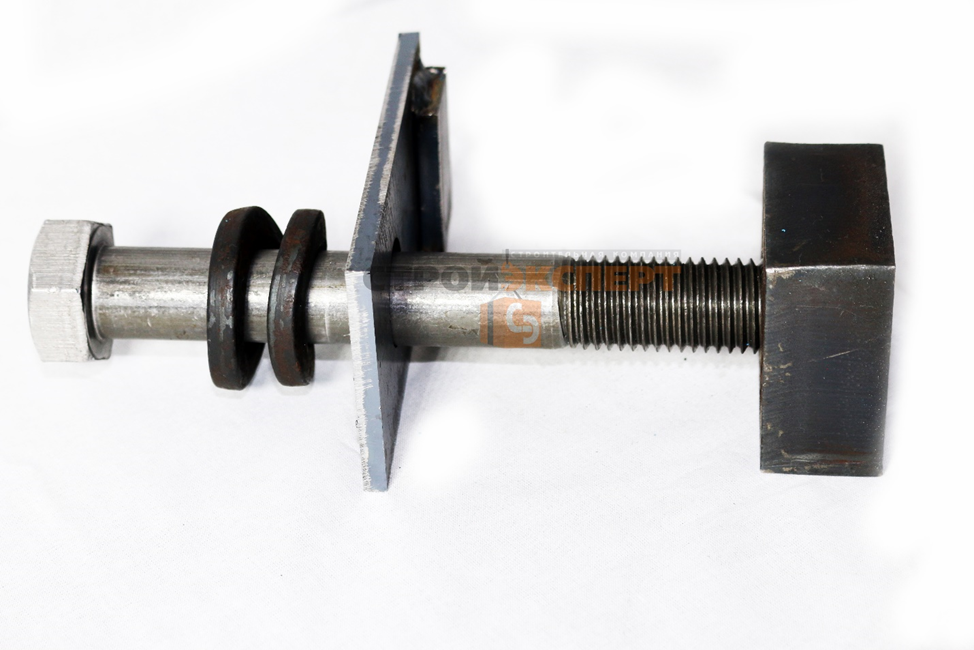
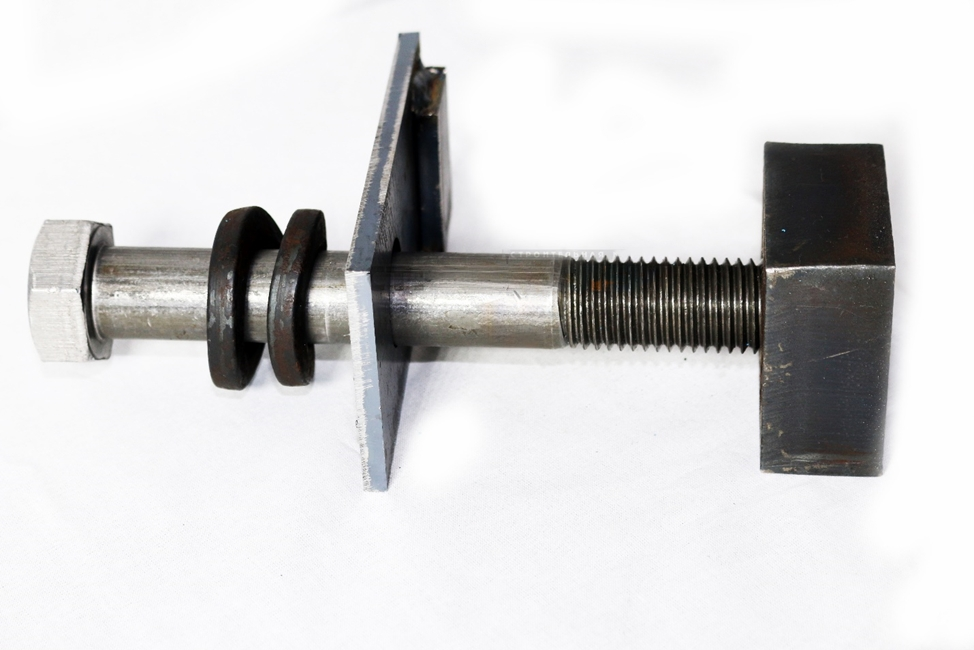
remove watermarks, page monitoring and edits(text)

Changed region(s): [[0.4312, 0.3692, 0.7084, 0.5538]]

diff --git a/src/app/(bzd)/services/monitoring/page.tsx b/src/app/(bzd)/services/monitoring/page.tsx
@@ -3,6 +3,8 @@ import ServicesHeader from "@/components/widgets/ServicesHeader";
 import PackingOfSafetyBags from "@/components/widgets/PackingOfSafetyBags";
 import AdditionalServices from "@/components/widgets/AdditionalServices";
 import PickupConditions from "@/components/widgets/PickupConditions";
+import {Check} from "lucide-react";
+import {Image} from "@nextui-org/react";
 
 const Page = async() => {
 
@@ -18,12 +20,90 @@ const Page = async() => {
                     // defaultValue={'monitoring'}
                 />
                 <div
-                    className={'w-full mx-auto flex flex-col items-center justify-center max-w-7xl px-2 lg:px-8 gap-4'}>
-                    {/*<PackingOfSafetyBags/>*/}
-                    {/*<AdditionalServices title={'Дополнительные услуги'}*/}
-                    {/*                    description={'Перечень дополнительных услуг, которые необходимы для полной реализации задачи.'}*/}
-                    {/*/>*/}
-                    {/*<PickupConditions defaultValue={'rent'}/>*/}
+                    className={'w-full mx-auto flex flex-col max-w-7xl px-2 lg:px-8 gap-4'}>
+                    <div className={'flex flex-col gap-2'}>
+                        <h2 className={'text-3xl font-bold'}>
+                            Системы автоматизированного деформационного мониторинга (АСДМ)
+                        </h2>
+                    </div>
+                    <div className={'flex justify-between w-full gap-6'}>
+                        <div className={'w-full flex justify-center gap-3 flex-col'}>
+                            <p>
+                                Контроль стабильности потенциально опасных объектов и прогнозирования их поведения
+                                являются очень важной задачей. Вместе с тем существует большое количество уже
+                                построенных стратегически важных объектов, таких как плотины, дамбы, ГЭС, АЭС,
+                                телевизионные вышки, старение конструкций которых требует особого внимания.
+                                Мы также должны заботиться о сохранности исторических памятников и сооружений,
+                                представляющих культурную ценность. Кроме того такие природные явления, движения
+                                земной коры, оползни, вулканы, землетрясения нуждаются в изучении для создания методов
+                                прогнозирования и предупреждения чрезвычайных ситуаций. Мониторинг состояния природных
+                                объектов и искусственных сооружений в наши дни является необходимостью и неотъемлемой
+                                частьюсистемы обеспечения безопасности.
+                            </p>
+                            <p>
+                                Основой мониторинга деформаций зданий, сооружений, являются серии наблюдений сделанных
+                                на протяжении времени для определения пространственных изменений геометрических
+                                параметров объектов в одном, двух или трех измерениях, а также во времени.
+                                При этом скорости и ускорения являются производными.
+                            </p>
+                        </div>
+                        <div className={'flex justify-center h-[70%]'}>
+                            <Image
+                                src={'/monitoring/img.png'}
+                                width={'100%'}
+                                height={'75%'}
+                                className={'object-cover hidden lg:block'} removeWrapper
+                            />
+                        </div>
+                    </div>
+                    {/*/*/}
+                    <div className={'flex flex-col gap-2'}>
+                        <h2 className={'text-3xl font-bold'}>
+                            Геомониторинг проводится
+                        </h2>
+                    </div>
+                    <div className={'flex justify-between w-full gap-6'}>
+                        <div className={'w-full flex justify-start gap-3 flex-col'}>
+                            <p>
+                                Перед началом строительства (мониторинг массива грунта, в том числе и уровня подземных
+                                вод, и сооружений окружающей застройки).
+                                На начальном этапе строительства (мониторинг ограждающих конструкций котлована
+                                с момента экскавации грунта).
+                                В процессе возведения надземной части здания или сооружения для контроля вертикальных
+                                перемещений (осадок) и отклонений от вертикали (кренов).
+                                В течение одного года после ввода объекта в эксплуатацию.
+                            </p>
+                            <p>
+                                Геодезический мониторинг призван обеспечивать безопасное возведение новых
+                                строительных объектов, а также эксплуатационную надежность реконструируемых зданий
+                                и новостроек.
+                            </p>
+                            <div className={'flex flex-col gap-2'}>
+                                <p className={'font-bold'}>Геомониторинг проводится в соответствии с нормативами:</p>
+                                <p className={'flex gap-2 items-center'}>
+                                    <hr className={'w-8 h-0.5 bg-primary rounded border-0'}/>
+                                    СП 22.13330.2016 «СНиП 2.02.01-83. Основания зданий и сооружений».
+                                </p>
+                                <p className={'flex gap-2 items-center'}>
+                                    <hr className={'w-8 h-0.5 bg-primary rounded border-0'}/>
+                                    ГОСТ 24846-2019 «Грунты Методы измерений деформаций оснований зданий и сооружений».
+                                </p>
+                                <p className={'flex gap-2 items-center'}>
+                                    <hr className={'w-8 h-0.5 bg-primary rounded border-0'}/>
+                                    Постановление Правительства Москвы за № 857 (от 7 декабря 2004 года).
+                                </p>
+
+                            </div>
+                        </div>
+                        <div className={'flex justify-center h-[70%]'}>
+                            <Image
+                                src={'/monitoring/img_1.png'}
+                                width={'100%'}
+                                height={'75%'}
+                                className={'object-cover hidden lg:block'} removeWrapper
+                            />
+                        </div>
+                    </div>
                 </div>
             </div>
         </Suspense>

diff --git a/src/components/widgets/TableDeadlines/index.tsx b/src/components/widgets/TableDeadlines/index.tsx
@@ -25,7 +25,7 @@ const TableDeadlines = () => {
                 </thead>
                 <tbody>
                 <tr>
-                    <td className="border-none shadow-sm bg-primary opacity-80 px-4 py-2">1. Подписание
+                    <td className="border-none shadow-sm bg-primary  px-4 py-2">1. Подписание
                         договора
                     </td>
                     <td className="text-center bg-primary text-white">1</td>
@@ -52,8 +52,7 @@ const TableDeadlines = () => {
                     <td className={'border border-black/20 w-[20px]'}></td>
                 </tr>
                 <tr>
-                    <td className="border-none bg-primary opacity-80 px-4 py-2">2. Разработка
-                        ППР на страхпакет
+                    <td className="border-none bg-primary  px-4 py-2">2. Разработка проекта производства работ
                     </td>
                     <td className={'border border-black/20 w-[20px]'}></td>
                     <td className="text-center bg-primary text-white" colSpan={3}>3 дня*</td>
@@ -77,16 +76,14 @@ const TableDeadlines = () => {
                     <td className={'border border-black/20 w-[20px]'}></td>
                 </tr>
                 <tr>
-                    <td className="border-none shadow-md bg-primary opacity-80 px-4 py-2">
-                        3. Инструментальная проверка коммуникаций,
-                        Согласование ППР на страхпакет,
-                        Договор на технадзор
+                    <td className="border-none shadow-md bg-primary  px-4 py-2">
+                        3. Согласование ППР
                     </td>
                     <td className={'border border-black/20 w-[20px]'}></td>
                     <td className={'border border-black/20 w-[20px]'}></td>
                     <td className={'border border-black/20 w-[20px]'}></td>
                     <td className={'border border-black/20 w-[20px]'}></td>
-                    <td className="text-center bg-primary text-white" rowSpan={4} colSpan={10} data-bs-toggle="tooltip"
+                    <td className="text-center bg-primary text-white" rowSpan={5} colSpan={10} data-bs-toggle="tooltip"
                         data-bs-placement="bottom"
                         data-bs-title="Проверка наличия инженерных коммуникаций, установка временных знаков в местах их расположения в зоне производства работ. Разработка мероприятий по обеспечению сохранности инженерных и кабельных коммуникаций.">23
                         дня*
@@ -101,8 +98,7 @@ const TableDeadlines = () => {
                     <td className={'border border-black/20 w-[20px]'}></td>
                 </tr>
                 <tr>
-                    <td className="border-none bg-primary opacity-60 px-6 py-2">3.1. Создание
-                        комиссии по инструментальной проверке
+                    <td className="border-none bg-primary  px-6 py-2">3.1.Организация и проведение инструментальной проверки
                     </td>
                     <td className={'border border-black/20 w-[20px]'}></td>
                     <td className={'border border-black/20 w-[20px]'}></td>
@@ -118,8 +114,7 @@ const TableDeadlines = () => {
                     <td className={'border border-black/20 w-[20px]'}></td>
                 </tr>
                 <tr>
-                    <td className="border-none bg-primary opacity-60 px-6 py-2">3.2.
-                        Комиссионный осмотр места работ
+                    <td className="border-none bg-primary  px-6 py-2">3.2. Получение документации в подразделения ОАО "РЖД"
                     </td>
                     <td className={'border border-black/20 w-[20px]'}></td>
                     <td className={'border border-black/20 w-[20px]'}></td>
@@ -135,8 +130,7 @@ const TableDeadlines = () => {
                     <td className={'border border-black/20 w-[20px]'}></td>
                 </tr>
                 <tr>
-                    <td className="border-none bg-primary opacity-60 px-6 py-2">3.2.
-                        подразделениях ОАО РЖД документов
+                    <td className="border-none bg-primary  px-6 py-2">3.3. Прохождение иструктажа в подразделениях ОАО "РЖД"
                     </td>
                     <td className={'border border-black/20 w-[20px]'}></td>
                     <td className={'border border-black/20 w-[20px]'}></td>
@@ -152,8 +146,23 @@ const TableDeadlines = () => {
                     <td className={'border border-black/20 w-[20px]'}></td>
                 </tr>
                 <tr>
-                    <td className="border-none shadow-sm bg-primary opacity-80 px-4 py-2">4. Получение
-                        акта-допуска
+                    <td className="border-none bg-primary  px-6 py-2">3.4. Согласование ППР в подразделениях ОАО "РЖД"
+                    </td>
+                    <td className={'border border-black/20 w-[20px]'}></td>
+                    <td className={'border border-black/20 w-[20px]'}></td>
+                    <td className={'border border-black/20 w-[20px]'}></td>
+                    <td className={'border border-black/20 w-[20px]'}></td>
+                    <td className={'border border-black/20 w-[20px]'}></td>
+                    <td className={'border border-black/20 w-[20px]'}></td>
+                    <td className={'border border-black/20 w-[20px]'}></td>
+                    <td className={'border border-black/20 w-[20px]'}></td>
+                    <td className={'border border-black/20 w-[20px]'}></td>
+                    <td className={'border border-black/20 w-[20px]'}></td>
+                    <td className={'border border-black/20 w-[20px]'}></td>
+                    <td className={'border border-black/20 w-[20px]'}></td>
+                </tr>
+                <tr>
+                    <td className="border-none shadow-sm bg-primary  px-4 py-2">4. Получение акта-допуска
                     </td>
                     <td className={'border border-black/20 w-[20px]'}></td>
                     <td className={'border border-black/20 w-[20px]'}></td>
@@ -175,8 +184,7 @@ const TableDeadlines = () => {
                     <td className={'border border-black/20 w-[20px]'}></td>
                 </tr>
                 <tr>
-                    <td className="border-b border-black/20 shadow-sm bg-primary opacity-80 px-4 py-2">5. Установка
-                        страхпакета
+                    <td className="border-b border-black/20 shadow-sm bg-primary  px-4 py-2">5. Установка ресльсового страховочного пакета
                     </td>
                     <td className={'border border-black/20 w-[20px]'}></td>
                     <td className={'border border-black/20 w-[20px]'}></td>

diff --git a/src/components/widgets/AppNavbar/index.tsx b/src/components/widgets/AppNavbar/index.tsx
@@ -90,13 +90,13 @@ const AppNavbar = () => {
                                 Аренда
                             </Link>
                         </NavbarMenuItem>
-                        {/*<NavbarMenuItem onClick={() => setIsMenuOpen(!isMenuOpen)}*/}
-                        {/*                isActive={pathname.includes('/services/monitoring')}>*/}
-                        {/*    <Link href={'/services/monitoring'}*/}
-                        {/*          className={`transition-background items-center flex rounded-md justify-between `}>*/}
-                        {/*        Мониторинг*/}
-                        {/*    </Link>*/}
-                        {/*</NavbarMenuItem>*/}
+                        <NavbarMenuItem onClick={() => setIsMenuOpen(!isMenuOpen)}
+                                        isActive={pathname.includes('/services/monitoring')}>
+                            <Link href={'/services/monitoring'}
+                                  className={`transition-background items-center flex rounded-md justify-between `}>
+                                Мониторинг
+                            </Link>
+                        </NavbarMenuItem>
                         {/*<NavbarMenuItem onClick={() => setIsMenuOpen(!isMenuOpen)}*/}
                         {/*                isActive={pathname.includes('/services/installation')}>*/}
                         {/*    <Link href={'/services/installation'}*/}
@@ -164,13 +164,13 @@ const AppNavbar = () => {
                         >
                             Аренда
                         </DropdownItem>
-                        {/*<DropdownItem*/}
-                        {/*    key="monitoring"*/}
-                        {/*    href={'/services/monitoring/'}*/}
-                        {/*    className={`${pathname.includes('/services/monitoring') ? 'bg-primary text-white' : ''}`}*/}
-                        {/*>*/}
-                        {/*    Мониторинг*/}
-                        {/*</DropdownItem>*/}
+                        <DropdownItem
+                            key="monitoring"
+                            href={'/services/monitoring/'}
+                            className={`${pathname.includes('/services/monitoring') ? 'bg-primary text-white' : ''}`}
+                        >
+                            Мониторинг
+                        </DropdownItem>
                         {/*<DropdownItem*/}
                         {/*    key="installation"*/}
                         {/*    href={'/services/installation/'}*/}

diff --git a/src/app/(bzd)/about-us/page.tsx b/src/app/(bzd)/about-us/page.tsx
@@ -71,8 +71,13 @@ const Page = async() => {
                     <div className={'flex flex-col gap-2'}>
                         <h2 className={'text-3xl font-bold'}>Наши преимущества</h2>
                         <p className={''}>
-                            Сертифицированная продукция и высококвалифицированные специалисты, соответствующие
-                            стандартам и требованиям.
+                            «БЖД» работает напрямую со своими заказчиками.
+                            Наша компания аккредитована в ОАО «РЖД», она соответствует высоким требованиям
+                            к защите объектов транспортной инфраструктуры и транспортных средств, что гарантирует
+                            надлежащее качество выполненных ею работ.
+                            Уверены и гарантируем, что  качество нашего продукта и услуг, оптимизируют ваши затраты
+                            на строительных объектах Вашей компанией.
+
                         </p>
                     </div>
                     <div className={'grid grid-cols-1 lg:grid-cols-2 w-full gap-6'}>

diff --git a/src/components/widgets/Costs/index.tsx b/src/components/widgets/Costs/index.tsx
@@ -124,7 +124,7 @@ const Costs = () => {
                                         <TableCell>Сторонним организациям для их видов работ</TableCell>
                                     </TableRow>
                                     <TableRow key="12">
-                                        <TableCell>Разработка ППР</TableCell>
+                                        <TableCell>Разработка и согласование</TableCell>
                                         <TableCell>200 000</TableCell>
                                         <TableCell>Сторонним организациям для их видов работ</TableCell>
                                     </TableRow>
